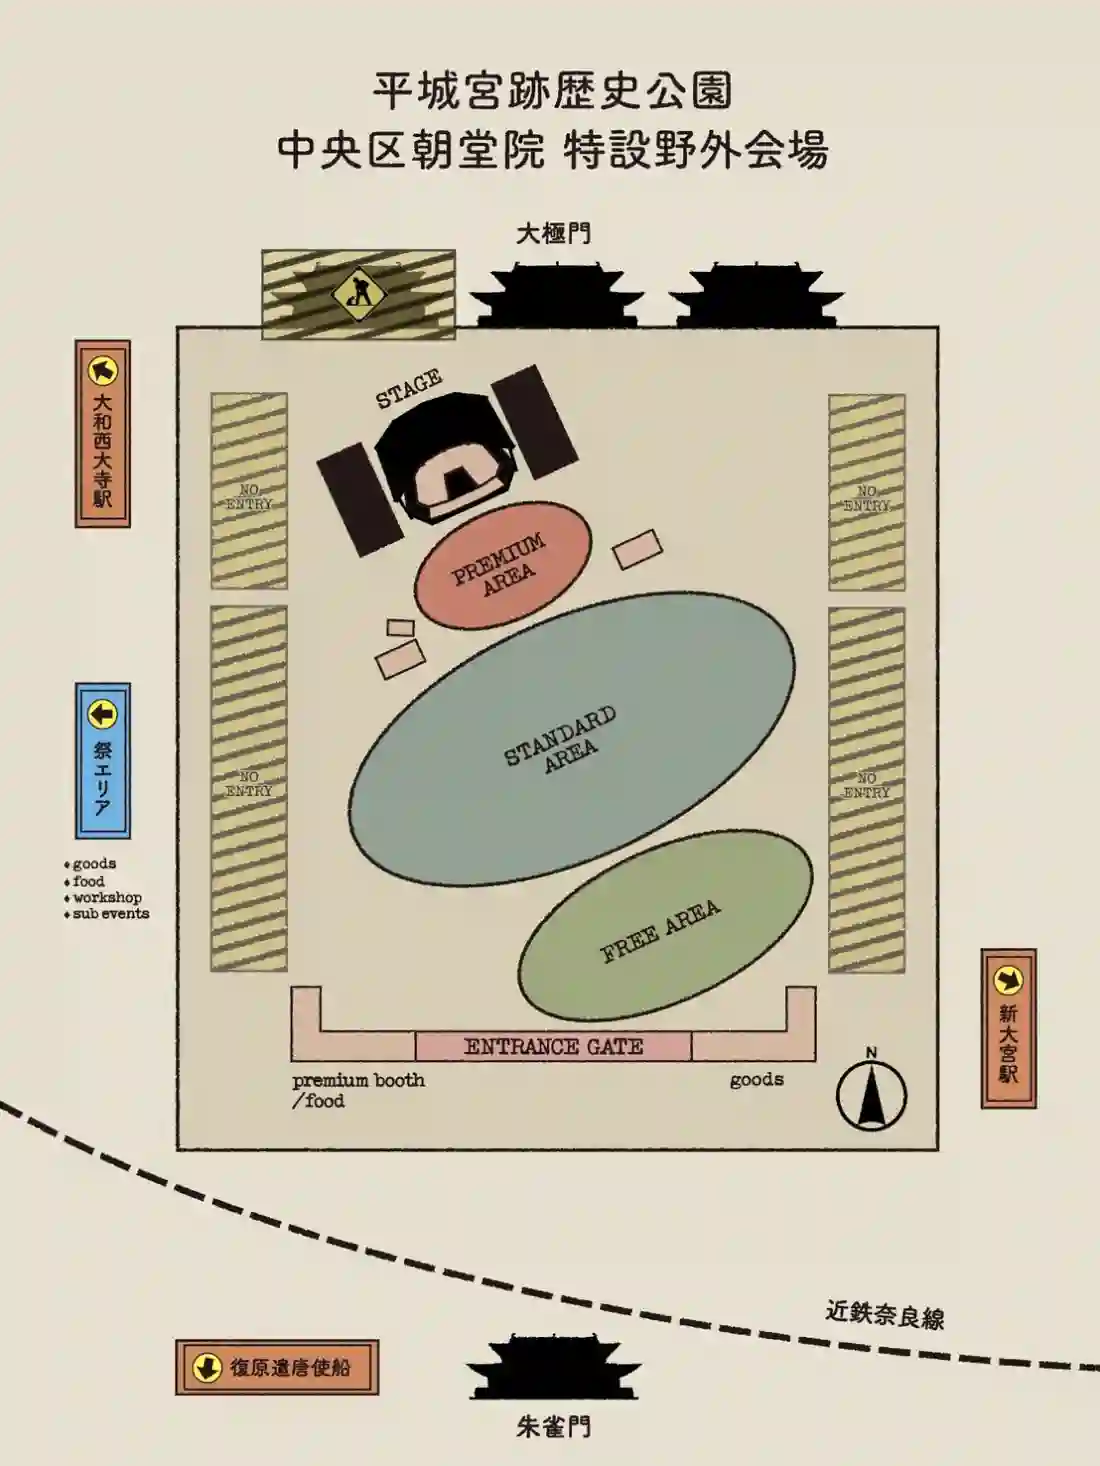
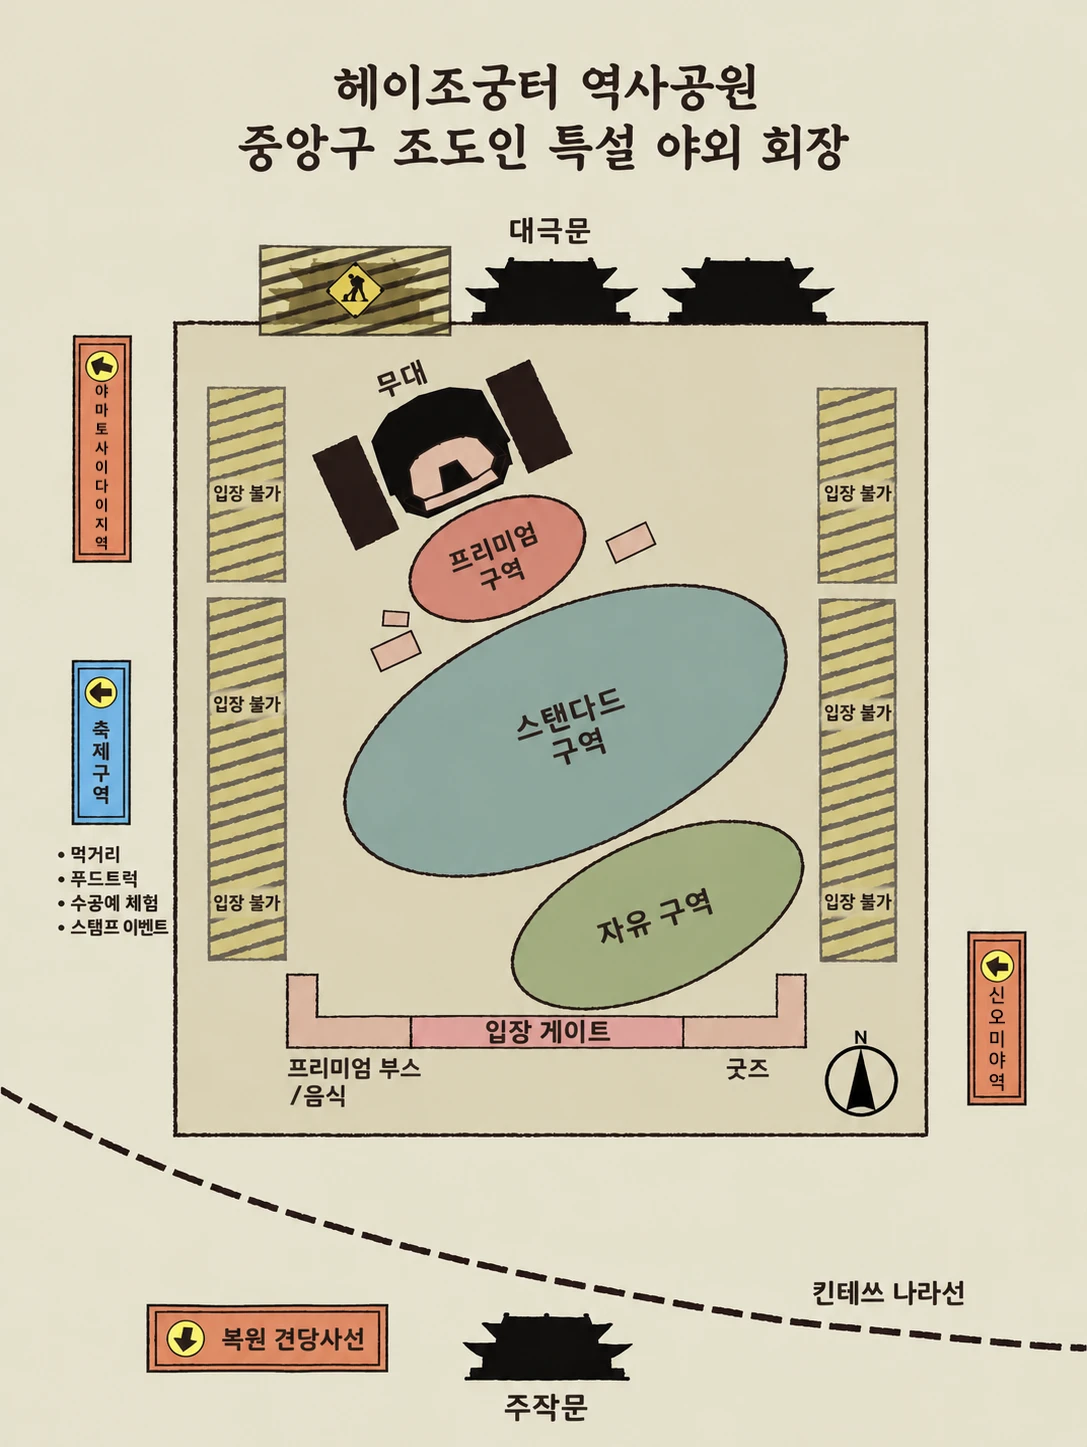
fix: 문화전뢰 정보 최신화 2

diff --git a/src/features/info/info.tsx b/src/features/info/info.tsx
@@ -6,13 +6,15 @@ import { InfoEvent } from "@/features/info/lib/types";
 export const INFO_SCROLL_CONTAINER_ID = "info-scroll-container";
 
 /** 정보 페이지 상단 탭 4종. */
-export type InfoTabId = "concert" | "matsuri" | "collabo" | "popup";
+export type InfoTabId =
+  "concert" | "matsuri" | "collabo" | "popup" | "stamp-rally";
 
 export const INFO_TABS: { id: InfoTabId; label: string }[] = [
   { id: "concert", label: "공연" },
   { id: "matsuri", label: "축제" },
   { id: "collabo", label: "콜라보" },
   { id: "popup", label: "팝업" },
+  { id: "stamp-rally", label: "스탬프 랠리" },
 ];
 
 /**
@@ -23,11 +25,10 @@ export const INFO_TABS: { id: InfoTabId; label: string }[] = [
  * 안에 흩어놓는 것보다 파악하기 쉽기 때문이다.
  */
 export const INFO_TAB_SECTIONS: Record<InfoTabId, string[]> = {
-  concert: ["notice", "map"],
+  concert: ["notice", "bonus", "map"],
   matsuri: [
     "map",
     "matsuri-map",
-    "matsuri-notice",
     "matsuri-workshop",
     "matsuri-food",
     "matsuri-sidestage",
@@ -35,6 +36,7 @@ export const INFO_TAB_SECTIONS: Record<InfoTabId, string[]> = {
   ],
   collabo: ["zutomarosh", "matsuri-collabo"],
   popup: ["popup", "ztmy-mart", "ztmy-stand"],
+  "stamp-rally": ["stamp-rally"],
 };
 
 // 여기서 다루는 공연이 바뀌면(다음 공연 안내로 교체), src/data/event.ts의
@@ -49,9 +51,9 @@ export const INFORMATION: InfoEvent = {
   place: "헤이조궁터 역사공원 (平城宮跡歴史公園)",
   sections: [
     { id: "notice", label: "공연" },
+    { id: "bonus", label: "특전" },
     { id: "map", label: "전체 지도" },
     { id: "matsuri-map", label: "축제 AREA 지도" },
-    { id: "matsuri-notice", label: "축제 공지" },
     { id: "matsuri-workshop", label: "워크숍 & 미니 게임" },
     { id: "matsuri-food", label: "음식 코너" },
     { id: "matsuri-sidestage", label: "사이드 스테이지" },
@@ -59,6 +61,7 @@ export const INFORMATION: InfoEvent = {
     { id: "zutomarosh", label: "즛토마로슈" },
     { id: "ztmy-mart", label: "팝업" },
     { id: "ztmy-stand", label: "팝업" },
+    { id: "stamp-rally", label: "스탬프 랠리" },
   ],
   url: {
     main: "https://zutomayo.net/bunka-denrai/",
@@ -85,6 +88,16 @@ export const INFORMATION: InfoEvent = {
         section: "notice",
       },
       {
+        name: "특전",
+        asset: "/assets/info/ztmy_heijyokyo_ltd-day001.jpg",
+        section: "bonus",
+      },
+      {
+        name: "특전",
+        asset: "/assets/info/ztmy_heijyokyo_ltd-day002.jpg",
+        section: "bonus",
+      },
+      {
         name: "전체 지도",
         asset: "/assets/info/heijyoukyo-map-all.webp",
         section: "map",
@@ -93,11 +106,6 @@ export const INFORMATION: InfoEvent = {
         name: "축제 지도",
         asset: "/assets/info/heijyoukyo-map-matsuri.webp",
         section: "matsuri-map",
-      },
-      {
-        name: "축제 공지",
-        asset: "/assets/info/matsuri_01.webp",
-        section: "matsuri-notice",
       },
       {
         name: "WORK SHOP & MINI GAME",
@@ -166,8 +174,18 @@ export const INFORMATION: InfoEvent = {
       },
       {
         name: "pop-up",
+        asset: "/assets/info/popup_04.webp",
+        section: "ztmy-mart",
+      },
+      {
+        name: "pop-up",
         asset: "/assets/info/popup_02.webp",
         section: "ztmy-stand",
+      },
+      {
+        name: "스탬프 랠리",
+        asset: "/assets/info/stamp-rally.webp",
+        section: "stamp-rally",
       },
     ],
   },

diff --git a/src/features/info/components/InfoTabs.tsx b/src/features/info/components/InfoTabs.tsx
@@ -7,6 +7,9 @@ import { INFO_SCROLL_CONTAINER_ID, INFO_TABS } from "@/features/info/info";
 import type { InfoTabId } from "@/features/info/info";
 import { useInfoTab } from "./InfoTabContext";
 
+// 탭 바를 컨테이너 최상단에 딱 붙이지 않고 살짝 띄우는 여백(px).
+const TABLIST_SCROLL_GAP = 8;
+
 /**
  * 앵커로 점프하는 목차 대신, 카테고리별로 화면 자체를 갈아끼우는 탭 바.
  * role="tablist"/"tab"을 쓰는 만큼 ARIA 탭 패턴대로 좌우 화살표(+Home/End)로
@@ -16,18 +19,30 @@ import { useInfoTab } from "./InfoTabContext";
  * 자연스럽다).
  *
  * 탭을 바꾸면 새로 보이는 콘텐츠가 이전 스크롤 위치보다 짧을 수 있어(탭마다
- * 섹션 개수가 다름) 스크롤 컨테이너를 맨 위로 되돌린다 — 안 그러면 빈
- * 공간이나 Footer만 보이는 채로 남아 "고장난 것처럼" 보인다.
+ * 섹션 개수가 다름) 스크롤을 되돌린다 — 안 그러면 빈 공간이나 Footer만
+ * 보이는 채로 남아 "고장난 것처럼" 보인다. 다만 페이지 맨 위(0)가 아니라
+ * 탭 바가 컨테이너 최상단에 오는 위치로 맞춘다 — 탭 바 위에 공연 개요·일정
+ * 카드가 있어서 맨 위로 가면 탭 바와 방금 연 탭 내용이 화면 밖으로 밀려난다.
  */
 export function InfoTabs() {
   const { activeTab, setActiveTab } = useInfoTab();
   const tabRefs = useRef<Partial<Record<InfoTabId, HTMLButtonElement>>>({});
+  const tablistRef = useRef<HTMLDivElement>(null);
 
   const activate = (id: InfoTabId) => {
     setActiveTab(id);
-    document
-      .getElementById(INFO_SCROLL_CONTAINER_ID)
-      ?.scrollTo({ top: 0, behavior: "smooth" });
+    // 새 탭 콘텐츠가 커밋된 뒤(스크롤 가능한 높이가 바뀐 뒤) 위치를 잡는다.
+    requestAnimationFrame(() => {
+      const container = document.getElementById(INFO_SCROLL_CONTAINER_ID);
+      const tablist = tablistRef.current;
+      if (!container || !tablist) return;
+      const top =
+        tablist.getBoundingClientRect().top -
+        container.getBoundingClientRect().top +
+        container.scrollTop -
+        TABLIST_SCROLL_GAP;
+      container.scrollTo({ top: Math.max(top, 0), behavior: "smooth" });
+    });
   };
 
   const handleKeyDown = (event: KeyboardEvent, index: number) => {
@@ -47,6 +62,7 @@ export function InfoTabs() {
 
   return (
     <div
+      ref={tablistRef}
       role="tablist"
       aria-label="정보 카테고리"
       className={cn("my-3 flex flex-wrap justify-center gap-2", "tablet:my-6")}
